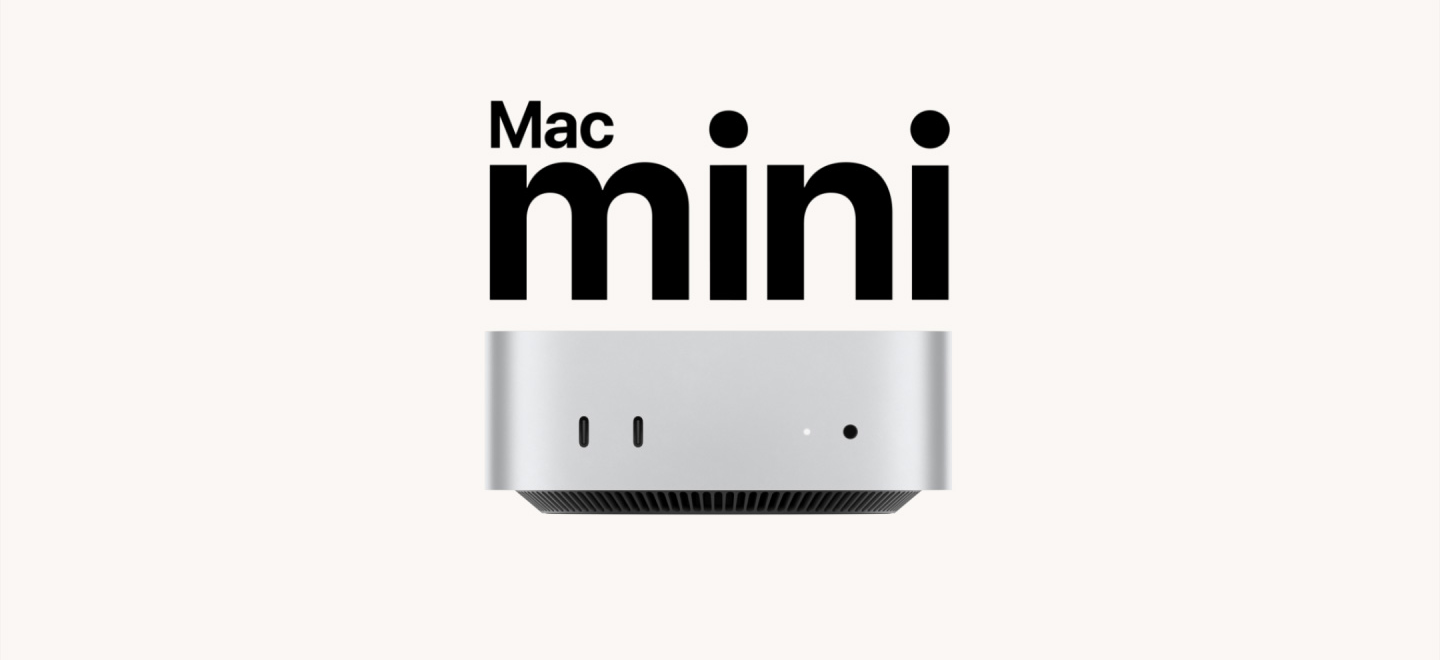
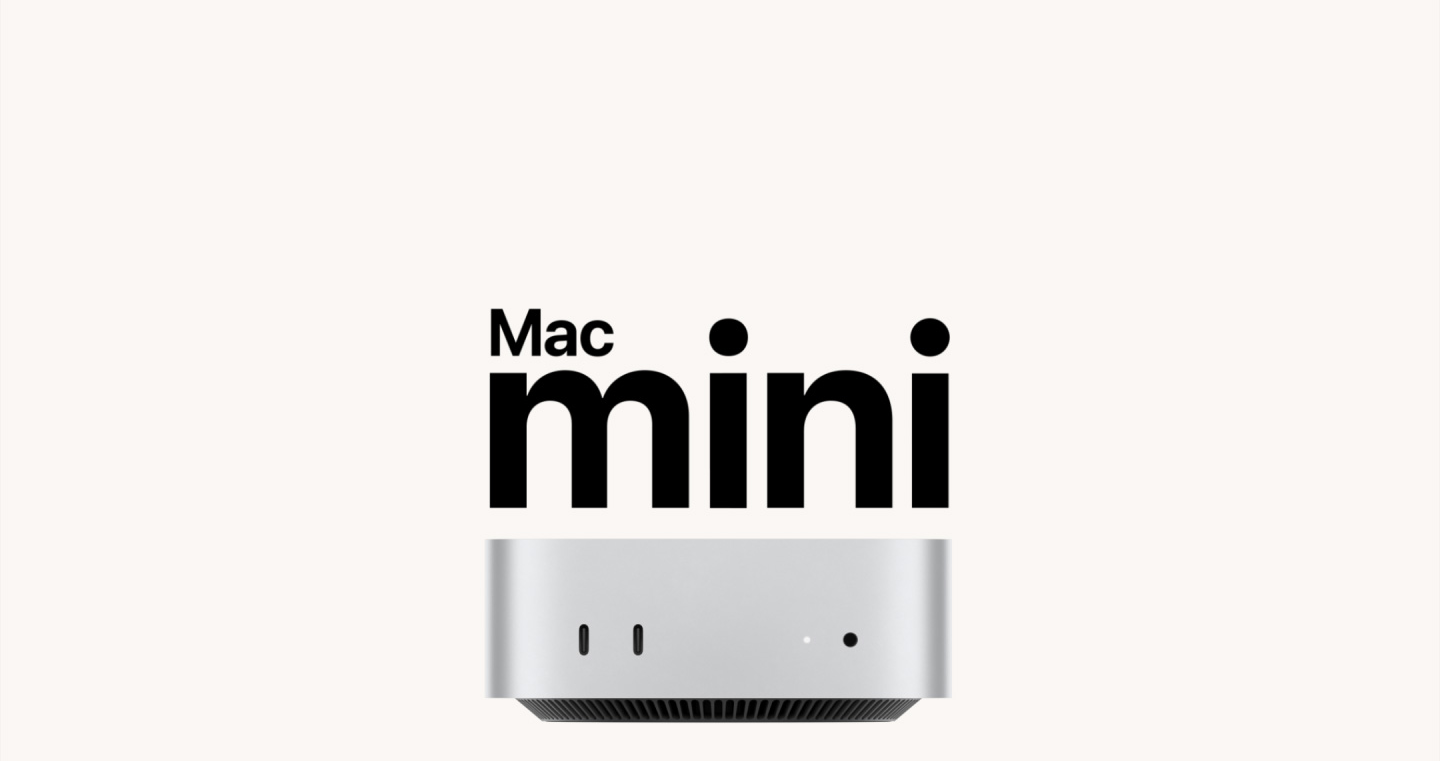
deploy: iyhome/SereinBlog@16288823831e09fda9f55604c45cbf452904e795

Changed region(s): [[0.3125, 0.1515, 0.6875, 0.9697]]

diff --git a/macmini-ssd-bestmothod/index.html b/macmini-ssd-bestmothod/index.html
@@ -1,5 +1,5 @@
 <!doctype html><html lang=zh-CN><head><meta charset=utf-8><meta name=viewport content="width=device-width,initial-scale=1"><meta name=robots content="noodp"><title>Mac mini M4存储扩容终极指南: 绕过苹果天价SSD - SereinBlog</title><meta name=Description content="雷雳4硬盘 + 迁移用户目录"><meta property="og:url" content="https://iyhome.github.io/macmini-ssd-bestmothod/">
-<meta property="og:site_name" content="SereinBlog"><meta property="og:title" content="Mac mini M4存储扩容终极指南: 绕过苹果天价SSD"><meta property="og:description" content="雷雳4硬盘 + 迁移用户目录"><meta property="og:locale" content="zh_CN"><meta property="og:type" content="article"><meta property="article:section" content="posts"><meta property="article:published_time" content="2025-03-07T22:52:18+08:00"><meta property="article:modified_time" content="2025-03-12T23:43:15+08:00"><meta property="article:tag" content="MacOS的雅致棱镜"><meta property="og:image" content="https://iyhome.github.io/macmini-ssd-bestmothod/featured-image.png"><meta name=twitter:card content="summary_large_image"><meta name=twitter:image content="https://iyhome.github.io/macmini-ssd-bestmothod/featured-image.png"><meta name=twitter:title content="Mac mini M4存储扩容终极指南: 绕过苹果天价SSD"><meta name=twitter:description content="雷雳4硬盘 + 迁移用户目录"><meta name=application-name content="LoveIt"><meta name=apple-mobile-web-app-title content="LoveIt"><meta name=theme-color content="#ffffff"><meta name=msapplication-TileColor content="#da532c"><link rel="shortcut icon" type=image/x-icon href=/favicon.ico><link rel=icon type=image/png sizes=32x32 href=/favicon-32x32.png><link rel=icon type=image/png sizes=16x16 href=/favicon-16x16.png><link rel=apple-touch-icon sizes=180x180 href=/apple-touch-icon.png><link rel=mask-icon href=/safari-pinned-tab.svg color=#5bbad5><link rel=manifest href=/site.webmanifest><link rel=canonical href=https://iyhome.github.io/macmini-ssd-bestmothod/><link rel=stylesheet href=/css/style.min.css><link rel=preload href=https://cdn.jsdelivr.net/npm/@fortawesome/fontawesome-free@6.1.1/css/all.min.css as=style onload='this.onload=null,this.rel="stylesheet"'><noscript><link rel=stylesheet href=https://cdn.jsdelivr.net/npm/@fortawesome/fontawesome-free@6.1.1/css/all.min.css></noscript><link rel=preload href=https://cdn.jsdelivr.net/npm/animate.css@4.1.1/animate.min.css as=style onload='this.onload=null,this.rel="stylesheet"'><noscript><link rel=stylesheet href=https://cdn.jsdelivr.net/npm/animate.css@4.1.1/animate.min.css></noscript><script type=application/ld+json>{"@context":"http://schema.org","@type":"BlogPosting","headline":"Mac mini M4存储扩容终极指南: 绕过苹果天价SSD","inLanguage":"zh-CN","mainEntityOfPage":{"@type":"WebPage","@id":"https:\/\/iyhome.github.io\/macmini-ssd-bestmothod\/"},"image":[{"@type":"ImageObject","url":"https:\/\/iyhome.github.io\/macmini-ssd-bestmothod\/featured-image.png","width":1440,"height":660}],"genre":"posts","keywords":"macOS的雅致棱镜","wordcount":2057,"url":"https:\/\/iyhome.github.io\/macmini-ssd-bestmothod\/","datePublished":"2025-03-07T22:52:18+08:00","dateModified":"2025-03-12T23:43:15+08:00","license":"This work is licensed under a Creative Commons Attribution-NonCommercial 4.0 International License.","publisher":{"@type":"Organization","name":"xxxx","logo":"https:\/\/iyhome.github.io\/images\/avatar.png"},"author":{"@type":"Person","name":"Serein"},"description":"雷雳4硬盘 + 迁移用户目录"}</script></head><body data-header-desktop=fixed data-header-mobile=auto><script type=text/javascript>(window.localStorage&&localStorage.getItem("theme")?localStorage.getItem("theme")==="dark":"auto"==="auto"?window.matchMedia("(prefers-color-scheme: dark)").matches:"auto"==="dark")&&document.body.setAttribute("theme","dark")</script><div id=mask></div><div class=wrapper><header class=desktop id=header-desktop><div class=header-wrapper><div class=header-title><a href=/ title=SereinBlog><span class=header-title-pre><i class='far fa-kiss-wink-heart fa-fw' aria-hidden=true></i></span><span id=id-1 class=typeit></span></a></div><div class=menu><div class=menu-inner><a class=menu-item href=/posts/>所有文章 </a><a class=menu-item href=/tags/>标签 </a><a class=menu-item href=/categories/>分类 </a><a class=menu-item href=/categories/documentation/>文档 </a><a class=menu-item href=/about/>关于 </a><a class=menu-item href=https://github.com/dillonzq/LoveIt title=GitHub rel="noopener noreffer" target=_blank><i class='fab fa-github fa-fw' aria-hidden=true></i> </a><span class="menu-item delimiter"></span><span class="menu-item search" id=search-desktop>
+<meta property="og:site_name" content="SereinBlog"><meta property="og:title" content="Mac mini M4存储扩容终极指南: 绕过苹果天价SSD"><meta property="og:description" content="雷雳4硬盘 + 迁移用户目录"><meta property="og:locale" content="zh_CN"><meta property="og:type" content="article"><meta property="article:section" content="posts"><meta property="article:published_time" content="2025-03-07T22:52:18+08:00"><meta property="article:modified_time" content="2025-03-12T23:43:15+08:00"><meta property="article:tag" content="MacOS的雅致棱镜"><meta property="og:image" content="https://iyhome.github.io/macmini-ssd-bestmothod/featured-image.png"><meta name=twitter:card content="summary_large_image"><meta name=twitter:image content="https://iyhome.github.io/macmini-ssd-bestmothod/featured-image.png"><meta name=twitter:title content="Mac mini M4存储扩容终极指南: 绕过苹果天价SSD"><meta name=twitter:description content="雷雳4硬盘 + 迁移用户目录"><meta name=application-name content="LoveIt"><meta name=apple-mobile-web-app-title content="LoveIt"><meta name=theme-color content="#ffffff"><meta name=msapplication-TileColor content="#da532c"><link rel="shortcut icon" type=image/x-icon href=/favicon.ico><link rel=icon type=image/png sizes=32x32 href=/favicon-32x32.png><link rel=icon type=image/png sizes=16x16 href=/favicon-16x16.png><link rel=apple-touch-icon sizes=180x180 href=/apple-touch-icon.png><link rel=mask-icon href=/safari-pinned-tab.svg color=#5bbad5><link rel=manifest href=/site.webmanifest><link rel=canonical href=https://iyhome.github.io/macmini-ssd-bestmothod/><link rel=stylesheet href=/css/style.min.css><link rel=preload href=https://cdn.jsdelivr.net/npm/@fortawesome/fontawesome-free@6.1.1/css/all.min.css as=style onload='this.onload=null,this.rel="stylesheet"'><noscript><link rel=stylesheet href=https://cdn.jsdelivr.net/npm/@fortawesome/fontawesome-free@6.1.1/css/all.min.css></noscript><link rel=preload href=https://cdn.jsdelivr.net/npm/animate.css@4.1.1/animate.min.css as=style onload='this.onload=null,this.rel="stylesheet"'><noscript><link rel=stylesheet href=https://cdn.jsdelivr.net/npm/animate.css@4.1.1/animate.min.css></noscript><script type=application/ld+json>{"@context":"http://schema.org","@type":"BlogPosting","headline":"Mac mini M4存储扩容终极指南: 绕过苹果天价SSD","inLanguage":"zh-CN","mainEntityOfPage":{"@type":"WebPage","@id":"https:\/\/iyhome.github.io\/macmini-ssd-bestmothod\/"},"image":[{"@type":"ImageObject","url":"https:\/\/iyhome.github.io\/macmini-ssd-bestmothod\/featured-image.png","width":1440,"height":761}],"genre":"posts","keywords":"macOS的雅致棱镜","wordcount":2057,"url":"https:\/\/iyhome.github.io\/macmini-ssd-bestmothod\/","datePublished":"2025-03-07T22:52:18+08:00","dateModified":"2025-03-12T23:43:15+08:00","license":"This work is licensed under a Creative Commons Attribution-NonCommercial 4.0 International License.","publisher":{"@type":"Organization","name":"xxxx","logo":"https:\/\/iyhome.github.io\/images\/avatar.png"},"author":{"@type":"Person","name":"Serein"},"description":"雷雳4硬盘 + 迁移用户目录"}</script></head><body data-header-desktop=fixed data-header-mobile=auto><script type=text/javascript>(window.localStorage&&localStorage.getItem("theme")?localStorage.getItem("theme")==="dark":"auto"==="auto"?window.matchMedia("(prefers-color-scheme: dark)").matches:"auto"==="dark")&&document.body.setAttribute("theme","dark")</script><div id=mask></div><div class=wrapper><header class=desktop id=header-desktop><div class=header-wrapper><div class=header-title><a href=/ title=SereinBlog><span class=header-title-pre><i class='far fa-kiss-wink-heart fa-fw' aria-hidden=true></i></span><span id=id-1 class=typeit></span></a></div><div class=menu><div class=menu-inner><a class=menu-item href=/posts/>所有文章 </a><a class=menu-item href=/tags/>标签 </a><a class=menu-item href=/categories/>分类 </a><a class=menu-item href=/categories/documentation/>文档 </a><a class=menu-item href=/about/>关于 </a><a class=menu-item href=https://github.com/dillonzq/LoveIt title=GitHub rel="noopener noreffer" target=_blank><i class='fab fa-github fa-fw' aria-hidden=true></i> </a><span class="menu-item delimiter"></span><span class="menu-item search" id=search-desktop>
 <input type=text placeholder=搜索文章标题或内容... id=search-input-desktop>
 <a href=javascript:void(0); class="search-button search-toggle" id=search-toggle-desktop title=搜索><i class="fas fa-search fa-fw" aria-hidden=true></i>
 </a><a href=javascript:void(0); class="search-button search-clear" id=search-clear-desktop title=清空><i class="fas fa-times-circle fa-fw" aria-hidden=true></i>
